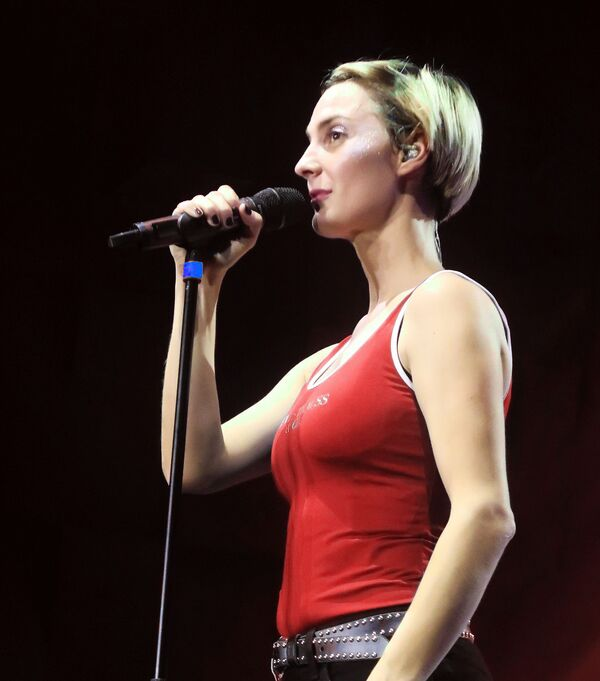
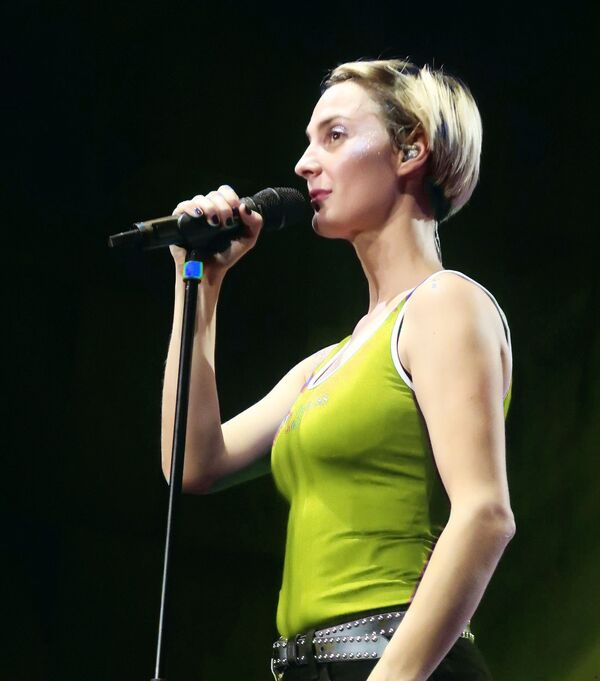
Added edge blending and hopefully improved code.

diff --git a/solutions/06-ImageRecoloring/Program.cs b/solutions/06-ImageRecoloring/Program.cs
@@ -48,19 +48,58 @@ class Program
           {
             skinMatrix[x, y] = 0;
           }
-          else if (skinThreshold.IsAlmostSkinPixel(labColor))
-          {
-            skinMatrix[x, y] = 0.2;
-          }
           else
           {
             skinMatrix[x, y] = 1;
           }
         }
       }
-
+      for (double i = 0; i < 10; i++)
+      {
+        skinMatrix = Dilation(skinMatrix, image.Width, image.Height, 1, 0);
+      }
       // Apply morphological erosion
-      // int[,] erodedMatrix = Erosion(skinMatrix, image.Width, image.Height);
+      
+      for (double i = 0; i < 25; i ++)
+      {
+        skinMatrix = Erosion(skinMatrix, image.Width, image.Height, 0, 0);
+      }
+
+      for (int y = 0; y < image.Height; y++)
+      {
+        for (int x = 0; x < image.Width; x++)
+        {
+          Rgba32 pixel = image[x, y];
+          CieLab labColor = converter.ToCieLab(pixel);
+
+          if (skinThreshold.IsAlmostSkinPixel(labColor))
+          {
+            skinMatrix[x, y] = 0.1;
+          }
+        }
+      }
+
+      for (double i = 1; i-0.03125 >0; i -= 0.03125)
+      {
+        skinMatrix = Dilation(skinMatrix, image.Width, image.Height, i, 0.03125);
+      }
+
+      /*
+      for (int y = 0; y < image.Height; y++)
+      {
+        for (int x = 0; x < image.Width; x++)
+        {
+          Rgba32 pixel = image[x, y];
+          var hsv = ColorSpaceConverter.ToHsv(pixel);
+          var ycbcr = ColorSpaceConverter.ToYCbCr(pixel);
+
+          if (skinThreshold.IsSkinPixel2(hsv, ycbcr))
+          {
+            skinMatrix[x, y] = 0;
+          }
+        }
+      }
+      */
 
       for (int y = 0; y < image.Height; y++)
       {
@@ -72,14 +111,23 @@ class Program
           // Calculate the likelihood ratio for skin probability based on the updated skin matrix
           var likelihoodRatio = skinMatrix[x, y];
 
-          // Calculate new hueDelta based on likelihoodRatio
-          float newHueDelta = (float)((double)hueDelta * likelihoodRatio);
+          // Smooth transition using linear interpolation (LERP)
+          var interpolatedRatio = SmoothTransition(likelihoodRatio);
+
+          // Calculate new hueDelta based on the interpolated ratio
+          float newHueDelta = (float)((double)hueDelta * interpolatedRatio);
 
           // Apply hue shift to non-skin pixels
-          var newHsv = new Hsv(hsv.H + newHueDelta, hsv.S, hsv.V);
+          var newHsv = new Hsv((hsv.H + newHueDelta)%360, hsv.S, hsv.V);
           var newRgb = ColorSpaceConverter.ToRgb(newHsv);
-          image[x, y] = new Rgba32(newRgb.R, newRgb.G, newRgb.B, pixel.A);
-          // image[x, y] = new Rgba32((byte)(255 * likelihoodRatio), (byte)(255 * likelihoodRatio), (byte)(255 * likelihoodRatio), pixel.A);
+
+          // Blend the new color with the original color based on the interpolated ratio
+
+          //image[x, y] = new Rgba32((byte)(255 * likelihoodRatio), (byte)(255 * likelihoodRatio), (byte)(255 * likelihoodRatio), pixel.A);
+
+          var blendedColor = BlendColors(pixel, new Rgba32(newRgb.R, newRgb.G, newRgb.B, pixel.A), interpolatedRatio);
+          image[x, y] = blendedColor;
+
         }
       }
 
@@ -87,28 +135,99 @@ class Program
     }
   }
 
-  static int[,] Erosion (double[,] inputMatrix, int width, int height)
+  static float SmoothTransition (double value)
   {
-    int[,] resultMatrix = new int[width, height];
+    // Use a smoothstep function for smooth transitions
+    return (float)(value * value * (3 - 2 * value));
+  }
+
+  static Rgba32 BlendColors (Rgba32 color1, Rgba32 color2, float ratio)
+  {
+    // Linear interpolation (LERP) between two colors
+    return new Rgba32(
+        (byte)(color1.R + (color2.R - color1.R) * ratio),
+        (byte)(color1.G + (color2.G - color1.G) * ratio),
+        (byte)(color1.B + (color2.B - color1.B) * ratio),
+        (byte)(color1.A + (color2.A - color1.A) * ratio)
+    );
+  }
+
+
+  static double[,] Erosion (double[,] inputMatrix, int width, int height, double setValue, double newValue)
+  {
+    double[,] resultMatrix = new double[width, height];
+
+    for (int x = 1; x < width - 1; x++)
+    {
+      resultMatrix[x, 0] = inputMatrix[x, 0];
+      resultMatrix[x, height-1] = inputMatrix[x, height - 1];
+    }
+
+    for (int y = 1; y < height - 1; y++)
+    {
+      resultMatrix[0, y] = inputMatrix[0, y];
+      resultMatrix[width-1, y] = inputMatrix[width - 1, y];
+    }
 
     for (int y = 1; y < height - 1; y++)
     {
       for (int x = 1; x < width - 1; x++)
       {
-        // Apply 3x3 erosion kernel
-        if (inputMatrix[x, y] == 0 ||
-            inputMatrix[x - 1, y - 1] == 0 || inputMatrix[x, y - 1] == 0 || inputMatrix[x + 1, y - 1] == 0 ||
-            inputMatrix[x - 1, y] == 0 || inputMatrix[x, y] == 0 || inputMatrix[x + 1, y] == 0 ||
-            inputMatrix[x - 1, y + 1] == 0 || inputMatrix[x, y + 1] == 0 || inputMatrix[x + 1, y + 1] == 0)
+        if(inputMatrix[x, y] < 1)
         {
-          if (inputMatrix[x, y] == 2)
-          {
-            resultMatrix[x, y] = 0;
-          }
+          resultMatrix[x, y] = inputMatrix[x, y];
+        }
+        else if (inputMatrix[x, y] == setValue ||
+            inputMatrix[x - 1, y - 1] == setValue || inputMatrix[x, y - 1] == setValue || inputMatrix[x + 1, y - 1] == setValue ||
+            inputMatrix[x - 1, y] == setValue || inputMatrix[x, y] == setValue || inputMatrix[x + 1, y] == setValue ||
+            inputMatrix[x - 1, y + 1] == setValue || inputMatrix[x, y + 1] == setValue || inputMatrix[x + 1, y + 1] == setValue)
+        {
+          resultMatrix[x, y] = Math.Min(setValue + newValue, 1);
         }
         else
         {
           resultMatrix[x, y] = 1;
+        }
+      }
+    }
+
+    return resultMatrix;
+  }
+
+  static double[,] Dilation (double[,] inputMatrix, int width, int height, double setValue, double newValue)
+  {
+    double[,] resultMatrix = new double[width, height];
+
+    for (int x = 1; x < width - 1; x++)
+    {
+      resultMatrix[x, 0] = inputMatrix[x, 0];
+      resultMatrix[x, height - 1] = inputMatrix[x, height - 1];
+    }
+
+    for (int y = 1; y < height - 1; y++)
+    {
+      resultMatrix[0, y] = inputMatrix[0, y];
+      resultMatrix[width - 1, y] = inputMatrix[width - 1, y];
+    }
+
+    for (int y = 1; y < height - 1; y++)
+    {
+      for (int x = 1; x < width - 1; x++)
+      {
+        if (inputMatrix[x, y] != 0)
+        {
+          resultMatrix[x, y] = inputMatrix[x, y];
+        }
+        else if (
+            inputMatrix[x - 1, y - 1] == setValue || inputMatrix[x, y - 1] == setValue || inputMatrix[x + 1, y - 1] == setValue ||
+            inputMatrix[x - 1, y] == setValue || inputMatrix[x + 1, y] == setValue ||
+            inputMatrix[x - 1, y + 1] == setValue || inputMatrix[x, y + 1] == setValue || inputMatrix[x + 1, y + 1] == setValue)
+        {
+          resultMatrix[x, y] = Math.Max(setValue-newValue,0);
+        }
+        else
+        {
+          resultMatrix[x, y] = 0;
         }
       }
     }
@@ -123,14 +242,22 @@ class SkinThreshold
   {
     // Skin tone thresholds in HSV and YCbCr color spaces
     bool hsvCheck = (hsv.H >= 0 && hsv.H <= 35) && (hsv.S >= 0.05882 && hsv.S <= 0.666667) && (hsv.V >= 0 && hsv.V <= 1);
+    bool ycbcrCheck = (ycbcr.Y >= 0 && ycbcr.Y <= 255) && (ycbcr.Cb >= 85 && ycbcr.Cb <= 135) && (ycbcr.Cr >= 135 && ycbcr.Cr <= 180);
+    return hsvCheck||ycbcrCheck;
+  }
+
+  public bool IsSkinPixel2 (Hsv hsv, YCbCr ycbcr)
+  {
+    // Skin tone thresholds in HSV and YCbCr color spaces
+    bool hsvCheck = (hsv.H >= 0 && hsv.H <= 35) && (hsv.S >= 0.05882 && hsv.S <= 0.666667) && (hsv.V >= 0 && hsv.V <= 1);
     bool ycbcrCheck = (ycbcr.Y >= 0 && ycbcr.Y <= 255) && (ycbcr.Cr >= 135 && ycbcr.Cr <= 180) && (ycbcr.Cb >= 85 && ycbcr.Cb <= 135);
-    return hsvCheck || ycbcrCheck;
+    return hsvCheck && ycbcrCheck;
   }
 
   public bool IsAlmostSkinPixel (CieLab labColor)
   {
     // Skin tone thresholds in HSV and YCbCr color spaces
-    bool labCheck = (labColor.L >= 30 && labColor.L <= 100) && (labColor.A >= -10 && labColor.A <= 45) && (labColor.B >= -10 && labColor.B <= 45);
+    bool labCheck = (labColor.L >= 30 && labColor.L <= 100) && (labColor.A >= -10 && labColor.A <= 45) && (labColor.B >= -10 && labColor.B <= 45) &&  (Math.Abs(labColor.A - labColor.B) > 10 || (Math.Abs(labColor.A) < 10 && Math.Abs(labColor.B) < 10)) ;
 
     return labCheck;
   }
